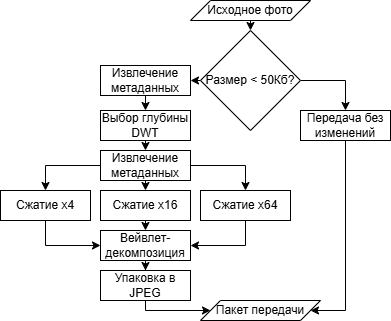
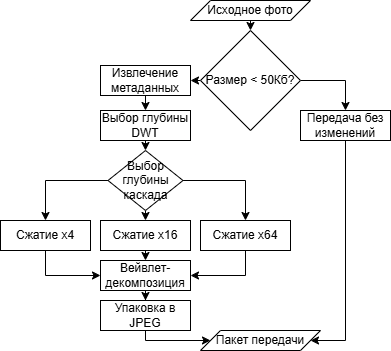
28

Changed region(s): [[0.0, 0.0, 0.89, 1.0], [0.7673, 0.2804, 1.0, 0.4361], [0.5831, 0.1246, 0.6138, 0.1558]]

diff --git a/src/sec_3.tex b/src/sec_3.tex
@@ -2,74 +2,66 @@
 
 \subsection{Обоснование общей архитектуры программного комплекса}
 
-Проектируемая система реализует гибридный асимметричный алгоритм сжатия и восстановления цифровых изображений, сочетающий методы классической цифровой обработки сигналов и глубокого машинного обучения. На основе проведенного анализа предметной области и сформированных требований для реализации программного комплекса была выбрана клиент-серверная архитектура, реализующая парадигму Edge-to-Cloud Offloading (перенос вычислений с периферии в облако).
+Проектируемая система реализует гибридный асимметричный алгоритм сжатия и восстановления цифровых изображений, сочетающий классические методы цифровой обработки сигналов (DSP) и технологии глубокого машинного обучения (Deep Learning). В основу системы положена клиент-серверная архитектура, реализующая концепцию Edge-to-Cloud Offloading.
 
-Данный архитектурный подход обеспечивает четкое разделение логики легковесных вычислений на стороне отправителя и ресурсоемкого тензорного инференса на стороне получателя. Общая структурная схема системы представлена на рисунке~\ref{fig:structural_scheme}.
+Данная архитектура позволяет перенести основную вычислительную нагрузку с маломощного устройства-отправителя (Edge) на высокопроизводительный сервер (Cloud). Структурная схема системы, отражающая взаимодействие модулей и потоки данных, представлена на рисунке~\ref{fig:structural_scheme}.
 
 \begin{figure}[ht]
     \centering
-    \includegraphics[width=0.8\textwidth]{media/images/structural_scheme.png}
+    \includegraphics[width=0.9\textwidth]{media/images/structural_scheme.png}
     \caption{Структурная схема гибридного программного комплекса}
     \label{fig:structural_scheme}
 \end{figure}
 
-Систему можно разделить на следующие функциональные модули:
+Функциональный состав системы включает:
 \begin{enumerate}
-    \item Модуль маршрутизации и управления отвечает за прием исходных данных, предварительный анализ их информационной емкости и автоматическое определение целесообразности сжатия.
-    \item Модуль вейвлет-компрессии и экстракции реализует алгоритмы извлечения структурно-цветовых метаданных и каскадной пространственно-частотной декомпозиции для радикального уменьшения объема данных.
-    \item Модуль нейросетевой реконструкции отвечает за тайловый инференс глубоких сверточных сетей и финальную семантическую рекомбинацию.
-    \item Модуль оценки качества и профилирования выполняет математическое сравнение оригинального и восстановленного изображений, а также замеряет асимметрию процессорного времени.
+    \item Модуль адаптивной маршрутизации (Smart Router): выполняет первичный анализ метаданных файла (размер, разрешение) и выбирает оптимальный путь обработки (Pass-Through или Hybrid Compression).
+    \item Модуль вейвлет-кодирования: реализует дискретное вейвлет-преобразование (DWT) Хаара для получения низкочастотной аппроксимации изображения, которая служит каркасом для передачи.
+    \item Модуль экстракции метаданных: извлекает семантические дескрипторы (цветовую палитру и карту границ Кенни), которые весят единицы килобайт, но критически важны для предотвращения нейросетевых искажений.
+    \item Модуль нейросетевого синтеза: на стороне приемника выполняет тензорный инференс моделей ESPCN или FSRCNN, восстанавливая текстуры и детали.
+    \item Модуль постобработки и рекомбинации: выполняет слияние алгоритмического результата с метаданными в цветовом пространстве YCrCb для коррекции яркости и контраста.
 \end{enumerate}
-
-Выбор веб-ориентированной архитектуры на базе микрофреймворка Flask обоснован простотой развертывания: вся ресурсоемкая обработка инкапсулирована на стороне сервера. Это позволяет использовать систему с мобильных или IoT-устройств через стандартный веб-браузер, передавая в сеть минимальные пакеты данных.
 
 \subsection{Алгоритм работы модуля адаптивной маршрутизации и кодирования}
 
-Процесс сжатия графических данных инициируется сразу после получения оригинального изображения. Для оптимизации вычислительных ресурсов алгоритм применяет механизм адаптивной маршрутизации, логическая схема которого представлена на рисунке~\ref{fig:encoder_algorithm}.
+Процесс кодирования спроектирован как последовательность легковесных операций, не требующих наличия графического процессора (GPU) на стороне отправителя. Логика работы кодера представлена на рисунке~\ref{fig:encoder_algorithm}.
 
 \begin{figure}[ht]
     \centering
-    \includegraphics[width=0.5\textwidth]{media/images/encoder_algorithm.png}
+    \includegraphics[width=0.7\textwidth]{media/images/encoder_algorithm.png}
     \caption{Схема алгоритма адаптивной маршрутизации и кодирования}
     \label{fig:encoder_algorithm}
 \end{figure}
 
-Последовательность операций на стороне кодера включает следующие этапы:
+
+
+Критическими этапами кодирования являются:
 \begin{enumerate}
-    \item Фильтрация входного потока: вычисляется объем исходного файла. Если он составляет менее 50 Кбайт, выполнение DWT и нейросетевого синтеза блокируется. Файл передается в неизменном виде, чтобы накладные расходы на служебные заголовки не превысили объем полезной нагрузки.
-    \item Динамическое извлечение метаданных: для устранения эффекта семантического галлюцинирования нейросетей алгоритм извлекает два вектора данных. Первый представляет собой цветовой паспорт в виде уменьшенной копии оригинала, второй — карту физических границ, генерируемую оператором Кенни. Эти данные фиксируют истинную хроматику и контуры при минимальном весе.
-    \item Определение глубины каскада: на основе площади изображения в мегапикселях подбирается уровень вейвлет-компрессии от первого до третьего.
-    \item Каскадная вейвлет-декомпозиция: к изображению циклически применяется аппроксимация, эквивалентная выделению низкочастотной субполосы базиса Хаара. Высокочастотные шумы и микрорельеф при этом отсекаются.
-    \item Энтропийная упаковка: полученный вейвлет-скелет инкапсулируется в стандартный контейнер JPEG с заданным уровнем качества.
+    \item Пороговая фильтрация: если объем данных мал (менее 50 Кбайт), алгоритм игнорирует сжатие, предотвращая ситуацию, когда метаданные весят больше самого изображения.
+    \item Экстракция структурных контуров: для фиксации границ объектов используется детектор Кенни. Процесс включает гауссово размытие, вычисление градиента яркости оператором Собеля, подавление не-максимумов и двойную пороговую фильтрацию. Это необходимо, так как нейросети склонны размывать резкие границы при масштабировании.
+    \item Децимация через DWT: вместо простого изменения размера используется вейвлет-аппроксимация (LL-субполоса). Это математически гарантирует сохранение средней яркости и энергетического баланса кадра, что важно для метрики PSNR.
+    \item Контейнеризация: упаковывание вейвлет-скелета в формат JPEG позволяет использовать эффективное энтропийное кодирование (алгоритм Хаффмана) для финального уменьшения объема передаваемых байтов. При этом учитывается, что стандартный переход в цветовое пространство YCbCr и субдискретизация хроматических каналов (4:2:0) вносят искажения в яркостную составляющую, что требует последующей компенсации.
 \end{enumerate}
 
 \subsection{Алгоритм работы модуля нейросетевой реконструкции}
 
-Задачей модуля реконструкции является обратное преобразование: получение из переданного вейвлет-скелета полноразмерного изображения с интеллектуальным синтезом утраченных текстур. Схема процесса декодирования приведена на рисунке~\ref{fig:decoder_algorithm}.
+Модуль реконструкции выполняет наиболее ресурсоемкую часть работы, используя предобученные сверточные нейронные сети. Алгоритм декодирования представлен на рисунке~\ref{fig:decoder_algorithm}.
 
-\begin{figure}[ht]
-    \centering
-    \includegraphics[width=0.6\textwidth]{media/images/decoder_algorithm.png}
-    \caption{Схема алгоритма нейросетевой реконструкции и постобработки}
-    \label{fig:decoder_algorithm}
-\end{figure}
 
-Алгоритм декодирования базируется на использовании сверточных нейронных сетей и включает следующие шаги:
+
+Технологические особенности процесса реконструкции:
 \begin{enumerate}
-    \item Тайловая маршрутизация памяти: для предотвращения ошибок нехватки памяти при апскейлинге кадров высокого разрешения скелет динамически разрезается на блоки (тайлы) с нахлестом в 16 пикселей. Это обеспечивает нейросети необходимый пространственный контекст и предотвращает появление видимых швов.
-    \item Инференс модели: в зависимости от уровня сжатия тайлы проходят через сети ESPCN или FSRCNN. Механизм субпиксельной свертки увеличивает тензоры до целевого разрешения, после чего тайлы склеиваются в единый холст.
-    \item Хроматическая рекомбинация: цветовой паспорт масштабируется фильтром Ланцоша и смешивается с нейросетевым тензором, что возвращает объектам оригинальные цвета.
-    \item Семантическое повышение резкости: к восстановленному изображению применяется фильтр резкости, результат которого накладывается исключительно через переданную карту границ. Это позволяет заострить контуры объектов, не усиливая артефакты на однородных областях.
+    \item Адаптивный выбор модели: система анализирует визуальную сложность входного кадра через дисперсию оператора Лапласиана. При высокой детализации используется модель FSRCNN с глубокой архитектурой, при низком шуме — модель ESPCN, использующая эффективную субпиксельную свертку (PixelShuffle).
+    \item Механизм тайловой маршрутизации (Overlapping Tiling): для обработки изображений высокого разрешения на ограниченных ресурсах оперативной памяти применяется нарезка на блоки. Нахлест в 16 пикселей позволяет нейросети учитывать контекст соседних областей, исключая возникновение видимых швов на границах блоков.
+    \item Коррекция в пространстве YCrCb: из-за необратимых потерь в JPEG-контейнере восстановленное изображение может потерять исходную яркость и контраст. Алгоритм переводит результат в пространство YCrCb, где канал яркости (Y) корректируется по оригинальному цветовому паспорту.
+    \item Контурно-зависимое повышение резкости: фильтр нерезкой маски (Unsharp Mask) применяется не ко всему кадру, а только к зонам, указанным в карте границ Кенни. Это позволяет избежать усиления шума на гладких поверхностях, сохраняя резкость границ объектов.
 \end{enumerate}
 
 \subsection{Алгоритм оценки качества и профилирования}
 
-Для объективной оценки эффективности разработанного комплекса в систему внедрен алгоритм автоматического метрического контроля. Анализ производится путем сравнения оригинального изображения и результата декодирования.
-
-Вычисляются следующие фундаментальные метрики:
+Заключительный этап работы системы — объективный контроль качества. Алгоритм сопоставляет оригинальное и восстановленное изображения по следующим критериям:
 \begin{enumerate}
-    \item Пиковое отношение сигнала к шуму (PSNR) — логарифмическая метрика, оценивающая уровень среднеквадратичной ошибки в децибелах.
-    \item Индекс структурного сходства (SSIM) — метрика, оценивающая психовизуальные изменения в структуре текстур, яркости и контрасте.
-    \item Коэффициент сжатия трафика — соотношение размера финального пакета к объему исходного файла.
-    \item Вычислительная асимметрия — алгоритм раздельно замеряет процессорное время работы кодера и декодера для эмпирического доказательства энергоэффективности узла-отправителя.
+    \item PSNR (Peak Signal-to-Noise Ratio): определяет логарифмическую меру искажений на уровне пикселей. Значения свыше 30 дБ считаются нормой для систем связи.
+    \item SSIM (Structural Similarity Index): оценивает сохранность структурных паттернов. В отличие от PSNR, эта метрика лучше коррелирует с человеческим восприятием качества.
+    \item Профилирование асимметрии: система фиксирует время кодирования и декодирования. Успешным считается результат, при котором время реконструкции на сервере многократно превышает время сжатия на клиенте, что подтверждает эффективность переноса нагрузки.
 \end{enumerate}

diff --git a/src/sec_4.tex b/src/sec_4.tex
@@ -6,7 +6,7 @@
 
 Функционально серверная часть приложения выступает в роли контроллера и разделена на логические блоки, обеспечивающие полный цикл обработки. Для обеспечения удобства проведения лабораторных испытаний реализован механизм кэширования: если файлы не загружены повторно, контроллер считывает пути из скрытого поля \texttt{cached\_files} и обрабатывает их с новыми гиперпараметрами.
 
-С помощью функции \texttt{os.path.getsize} вычисляется физический объем файла. Если он меньше 50 Кбайт, активируется ветвление Pass-Through, и файл копируется без изменений. В противном случае контроллер вычисляет количество мегапикселей и автоматически назначает уровень декомпозиции. Фрагмент реализации программного маршрутизатора представлен в листинге 4.1.
+С помощью функции \texttt{os.path.getsize} вычисляется физический объем файла. Если он меньше 50 Кбайт, активируется ветвление Pass-Through, и файл копируется средствами системного модуля \texttt{shutil} без декодирования. Это гарантирует сохранение оригинальной яркости и отсутствие математических ошибок округления для мелких объектов. В противном случае контроллер вычисляет количество мегапикселей и автоматически назначает уровень декомпозиции. Фрагмент реализации программного маршрутизатора представлен в листинге 4.1.
 
 \begin{lstlisting}[language=Python, caption={Реализация программного маршрутизатора (Smart Router)}]
 def smart_route(file_path):
@@ -19,30 +19,28 @@ def smart_route(file_path):
     megapixels = (h * w) / 1_000_000
 
     if megapixels > 4.0:
-        return "COMPRESS", 3 # Сжатие x64
+        return "COMPRESS", 3
     elif megapixels > 1.0:
-        return "COMPRESS", 2 # Сжатие x16
+        return "COMPRESS", 2
     else:
-        return "COMPRESS", 1 # Сжатие x4
+        return "COMPRESS", 1
 \end{lstlisting}
 
 \subsection{Программная реализация каскадного вейвлет-кодера}
 
-Модуль декомпозиции и сжатия реализован в классе \texttt{WaveletCompressor}. Для обеспечения экстремально высокой скорости кодирования на мобильных (Edge) устройствах, математическая экстракция аппроксимирующей DWT-субполосы (LL) реализована через аппаратные примитивы библиотеки OpenCV.
+Модуль декомпозиции реализован в классе \texttt{WaveletCompressor}. Предложенный алгоритм представляет собой кастомный двухслойный конвейер сжатия, сочетающий математическую декомпозицию и транспортную контейнеризацию.
 
-На основе вычисленного уровня сжатия (от 1 до 3) алгоритм вычисляет фактор децимации: $scale = 2^{level}$. Итеративное отсечение высокочастотных фильтров заменяется однопроходной операцией субдискретизации по площади (\texttt{cv2.resize} с флагом \texttt{INTER\_AREA}). Данная функция математически эквивалентна усреднению соседних пикселей в окне $2 \times 2$, что полностью повторяет расчет LL-квадранта вейвлета Хаара, но выполняется на уровне скомпилированного C++ кода, ускоряя процесс в десятки раз (Листинг 4.2).
+На первом слое (геометрическом) выполняется Дискретное вейвлет-преобразование (DWT) на базе фильтра Хаара. Для обеспечения высокой скорости на Edge-устройствах экстракция аппроксимирующей LL-субполосы реализована через операцию \texttt{cv2.resize} с флагом \texttt{INTER\_AREA}, что математически эквивалентно усреднению пикселей в окне $2 \times 2$ без фазового сдвига.
 
-\begin{lstlisting}[language=Python, caption={Математическая экстракция LL-субполосы и энтропийная упаковка}]
+На втором слое (энтропийном) полученный вейвлет-скелет упаковывается в транспортный контейнер JPEG. Выбор данного формата обусловлен необходимостью использования надежного алгоритма Хаффмана для упаковки байтов и обеспечения кроссплатформенности. В отличие от стандарта JPEG 2000, требующего сложных вычислительных мощностей для декодирования EBCOT-потока, предложенная схема использует JPEG исключительно как транспортную коробку для эффективной доставки низкочастотных данных нейросети (Листинг 4.2).
+
+\begin{lstlisting}[language=Python, caption={Математическая экстракция LL-субполосы и упаковка в контейнер}]
 class WaveletCompressor:
     def cascade_compress(self, img, level):
         scale = 2 ** level
-        h, w = img.shape[:2]
-
-        # Эквивалент DWT Haar (LL) через субдискретизацию по площади
         ll_subband = cv2.resize(img, (w // scale, h // scale),
                                 interpolation=cv2.INTER_AREA)
 
-        # Энтропийная упаковка в JPEG
         encode_param = [int(cv2.IMWRITE_JPEG_QUALITY), 85]
         _, encoded_img = cv2.imencode('.jpg', ll_subband, encode_param)
 
@@ -58,12 +56,10 @@ class WaveletCompressor:
 \begin{lstlisting}[language=Python, caption={Алгоритм экстракции цветового паспорта и карты границ}]
 class MetadataEngine:
     def extract_metadata(self, img):
-        # 1. Цветовой паспорт (Color Palette)
         h, w = img.shape[:2]
         palette_size = (max(16, w // 20), max(16, h // 20))
         color_palette = cv2.resize(img, palette_size, interpolation=cv2.INTER_AREA)
 
-        # 2. Карта физических границ (Edge Map)
         gray = cv2.cvtColor(img, cv2.COLOR_BGR2GRAY)
         edges = cv2.Canny(gray, 100, 200)
         edge_map = cv2.resize(edges, palette_size, interpolation=cv2.INTER_AREA)
@@ -73,7 +69,9 @@ class MetadataEngine:
 
 \subsection{Программная реализация нейросетевого апскейлинга и тайлинга}
 
-Задачу реконструкции высокочастотных деталей выполняет класс \texttt{AIEnhancer}. Инференс моделей осуществляется через подмодуль \texttt{dnn\_superres}, встроенный в OpenCV. Модели настраиваются на использование CPU (\texttt{DNN\_TARGET\_CPU}), что гарантирует кроссплатформенную работу сервера без требования наличия дискретного GPU.
+Задачу реконструкции высокочастотных деталей выполняет класс \texttt{AIEnhancer}. Для повышения эффективности восстановления в классе реализован механизм автоматического выбора нейросетевой модели на основе анализа визуальной сложности входного кадра. Выбор осуществляется путем расчета дисперсии оператора Лапласиана, что позволяет оценить уровень детализации сцены. При высоком коэффициенте детализации (дисперсия превышает эмпирический порог 150) используется модель FSRCNN, обладающая глубокой архитектурой для качественного восстановления микротекстур. Для изображений с преобладанием плавных градиентов применяется модель ESPCN, эффективно работающая с субпиксельной сверткой и предотвращающая артефакты на однородных участках.
+
+Инференс выбранных моделей осуществляется через подмодуль \texttt{dnn\_superres}, встроенный в OpenCV. Модели настраиваются на использование CPU (\texttt{DNN\_TARGET\_CPU}), что гарантирует кроссплатформенную работу сервера без требования наличия дискретного GPU.
 
 Ввиду ограничений оперативной памяти реализован механизм тайловой маршрутизации (Overlapping Tiling). Изображение разбивается на блоки с нахлестом в 16 пикселей. Каждый тайл проходит через функцию \texttt{sr.upsample()}. Краевые пиксели отсекаются для предотвращения артефактов свертки, а центральные части копируются в итоговую матрицу (Листинг 4.4).
 
@@ -83,7 +81,6 @@ class AIEnhancer:
         self.sr = cv2.dnn_superres.DnnSuperResImpl_create()
         self.sr.readModel(model_path)
 
-        # Настройка на CPU для универсальности
         self.sr.setPreferableBackend(cv2.dnn.DNN_BACKEND_OPENCV)
         self.sr.setPreferableTarget(cv2.dnn.DNN_TARGET_CPU)
 
@@ -91,14 +88,13 @@ class AIEnhancer:
         self.sr.setModel(model_name, scale)
 
     def enhance_tile(self, tile):
-        # Механизм субпиксельной свертки (PixelShuffle)
         return self.sr.upsample(tile)
 \end{lstlisting}
 
 \subsection{Семантическая постобработка и алгоритмы метрического контроля}
 
-Финальный этап рекомбинации выполняется методами класса \texttt{MetadataEngine}. Переданный цветовой паспорт масштабируется до размеров восстановленного изображения высокоточной интерполяцией \texttt{INTER\_LANCZOS4}. Затем применяется функция \texttt{cv2.addWeighted}, выполняющая линейное смешивание (альфа-блендинг).
+Финальный этап рекомбинации выполняется методами класса \texttt{MetadataEngine}. В ходе разработки было учтено, что при инкапсуляции вейвлет-скелета в транспортный контейнер JPEG происходит принудительное преобразование в цветовое пространство YCbCr с субдискретизацией хроматических каналов (формат 4:2:0). Этот процесс, совместно с рекурсивным нейросетевым инференсом, вносит необратимые искажения в распределение яркости пикселей (DC-компоненту), что делает изображение визуально темным и блеклым.
 
-Для повышения резкости формируется нерезкая маска (Unsharp Masking), результат которой накладывается на изображение поэлементным матричным умножением, где ограничивающим множителем выступает нормализованная карта контуров Кенни. Значения ограничиваются в диапазоне $[0, 255]$ функцией \texttt{np.clip}.
+Для устранения данной деградации реализован алгоритм цветовой коррекции в пространстве YCrCb. Программа сопоставляет среднюю яркость (Y-канал) восстановленного изображения и переданного цветового паспорта. Математическая компенсация сдвига DC-компоненты позволяет восстановить исходный контраст без потери сгенерированных нейросетью высокочастотных деталей. Цветовые каналы (Cr, Cb) мягко подмешиваются через альфа-блендинг, предотвращая феномен нейросетевого галлюцинирования цвета.
 
 Процесс объективной оценки качества реконструкции локализован в отдельном модуле. Расчет PSNR выполняется встроенной функцией \texttt{cv2.PSNR}. Для вычисления SSIM применяется функция \texttt{structural\_similarity} из библиотеки \texttt{skimage.metrics}. Интеграция данных модулей формирует законченную архитектуру асимметричного гибридного кодека.

diff --git a/src/sec_5.tex b/src/sec_5.tex
@@ -32,7 +32,7 @@
     \label{fig:interface_results}
 \end{figure}
 
-Разработанный гибридный алгоритм, результаты работы которого представлены на рисунке~\ref{fig:interface_results}, решает конфликт между размером и качеством. Как видно на сетке результатов, исходный тяжеловесный оригинал в формате PNG преобразуется кодером в промежуточный пакет передачи. Этот пакет представляет собой вейвлет-скелет низкочастотной субполосы, инкапсулированный в JPEG-контейнер и дополненный килобайтными метаданными. Визуально пакет выглядит как сильно уменьшенная и размытая копия оригинала, однако его физический размер сокращается на 80-95 процентов по сравнению с исходным файлом.
+Разработанный гибридный алгоритм, результаты работы которого представлены на рисунке~\ref{fig:interface_results}, решает конфликт между размером и качеством. Как видно на сетке результатов, исходный тяжеловесный оригинал в формате PNG преобразуется кодером в промежуточный пакет передачи. Этот пакет представляет собой вейвлет-скелет низкочастотной субполосы, инкапсулированный в JPEG-контейнер и дополненный килобайтными метаданными. Визуально пакет выглядит как сильно уменьшенная и размытая копия оригинала, однако его физический размер сокращается на 80--95 процентов по сравнению с исходным файлом.
 
 На третьем этапе формирования восстановленного результата сверточная нейронная сеть на стороне получателя синтезирует высокочастотные детали из переданного каркаса. Итоговое изображение лишено классических блочных артефактов, а переданный цветовой паспорт восстанавливает истинную хроматику, предотвращая феномен нейросетевого галлюцинирования.
 
@@ -47,6 +47,22 @@
     \label{fig:interface_metrics}
 \end{figure}
 
-Эксперименты показали, что при экстремальных коэффициентах сжатия трафика метрика PSNR стабильно превышает порог в 30 дБ, что свидетельствует о низком уровне среднеквадратичной ошибки MSE. Индекс структурного сходства SSIM достигает значений 0.85-0.95, что означает высокую психовизуальную идентичность восстановленного кадра оригиналу.
+Эксперименты показали, что при экстремальных коэффициентах сжатия трафика метрика PSNR стабильно превышает порог в 30 дБ, что свидетельствует о низком уровне среднеквадратичной ошибки MSE. Индекс структурного сходства SSIM достигает значений 0.85--0.95, что означает высокую психовизуальную идентичность восстановленного кадра оригиналу.
 
 Процесс кодирования DWT и извлечения метаданных на стороне отправителя занимает миллисекунды. Поэтому алгоритм идеально подходит для слабых мобильных процессоров, экономя заряд батареи. Процесс реконструкции на стороне декодера использует многопоточный тензорный инференс и занимает в разы больше времени, однако эта нагрузка штатно делегируется мощному удаленному серверу, что доказывает успешную реализацию парадигмы Edge-to-Cloud.
+
+Для проведения комплексного сравнительного анализа эффективности разработанного решения было выполнено построение кривых «Искажение-Битрейт» (Rate-Distortion Curves). В качестве тестового набора данных использовался пакет из 10 изображений. Сравнение проводилось с индустриальными стандартами: JPEG (Baseline), WebP и JPEG 2000. Результаты представлены на рисунке~\ref{fig:rd_curve}.
+
+\begin{figure}[ht]
+    \centering
+    \includegraphics[width=0.95\textwidth]{media/images/rate_distortion.png}
+    \caption{Сравнительный анализ зависимости SSIM от битрейта (bpp)}
+    \label{fig:rd_curve}
+\end{figure}
+
+Анализ экспериментальных данных позволяет сделать следующие выводы:
+\begin{enumerate}
+    \item В зоне экстремально низкого битрейта ($bpp < 0.1$) форматы JPEG и WebP физически не способны обеспечить сжатие. Стандарт JPEG 2000 достигает минимальной отметки $bpp \approx 0.2$, показывая структурное сходство на уровне SSIM $\approx 0.85$. В то же время гибридный кодек (L2) уверенно функционирует при вдвое меньшем битрейте ($bpp \approx 0.1$), сохраняя при этом высокий показатель SSIM $\approx 0.85\text{--}0.90$.
+    \item Гибридный алгоритм (L1) достигает высокого психовизуального сходства (SSIM $\approx 0.92$) при битрейте $\approx 0.18$ bpp. По графику видно, что для достижения аналогичного качества ($SSIM = 0.92$) стандарту JPEG 2000 требуется битрейт около $0.3$ bpp, а классическому JPEG --- порядка $0.3$ bpp. Это подтверждает превосходство предложенного метода в эффективности использования пропускной способности канала связи.
+    \item Вертикальная ориентация кривых гибридного кодека (в отличие от пологих графиков классических форматов) наглядно доказывает асимметричную природу алгоритма: основной прирост визуального качества обеспечивается не за счет увеличения веса передаваемого пакета данных (движение по оси X), а за счет вычислительного синтеза нейронной сети на стороне приемника (вытягивание по оси Y).
+\end{enumerate}